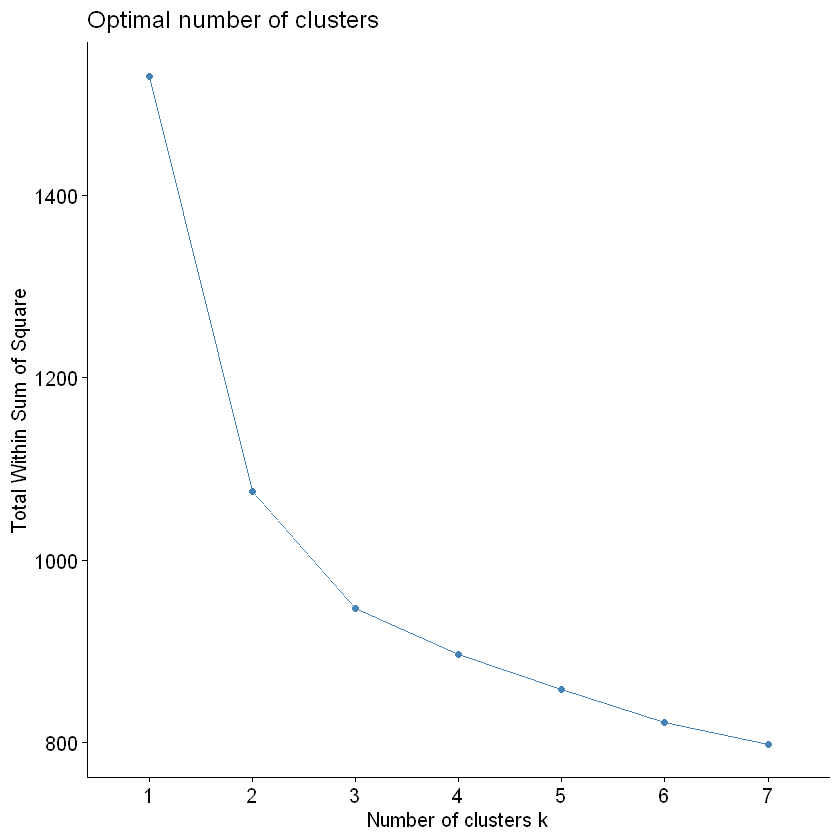
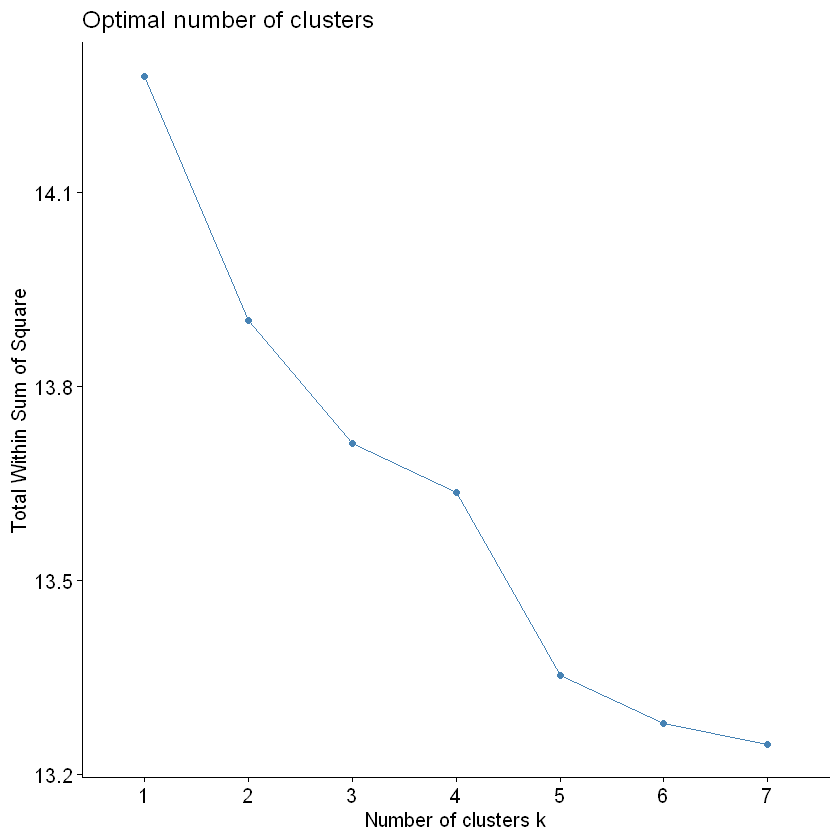
Update choosing K in P2

diff --git a/RNotebook2/RNotebook.html b/RNotebook2/RNotebook.html
@@ -13489,7 +13489,7 @@ height=420
 <div class="inner_cell">
     <div class="input_area">
 <div class=" highlight hl-r"><pre><span></span><span class="c1">## Estimating the optimal number of clusters: WSS</span>
-<span class="nf">fviz_nbclust</span><span class="p">(</span><span class="n">gower_mat</span><span class="p">,</span> <span class="n">kmeans</span><span class="p">,</span> <span class="n">method</span> <span class="o">=</span> <span class="s">&quot;wss&quot;</span><span class="p">,</span> <span class="n">k.max</span><span class="o">=</span><span class="m">7</span><span class="p">)</span>
+<span class="nf">fviz_nbclust</span><span class="p">(</span><span class="n">df_cluster</span><span class="p">,</span> <span class="n">kmeans</span><span class="p">,</span> <span class="n">diss</span><span class="o">=</span><span class="n">gower_mat</span><span class="p">,</span> <span class="n">method</span> <span class="o">=</span> <span class="s">&quot;wss&quot;</span><span class="p">,</span> <span class="n">k.max</span><span class="o">=</span><span class="m">7</span><span class="p">)</span>
 </pre></div>
 
     </div>
@@ -13526,7 +13526,7 @@ height=420
 <div class="inner_cell">
     <div class="input_area">
 <div class=" highlight hl-r"><pre><span></span><span class="c1">## Estimating the optimal number of clusters: Silhouette</span>
-<span class="nf">fviz_nbclust</span><span class="p">(</span><span class="n">gower_mat</span><span class="p">,</span> <span class="n">kmeans</span><span class="p">,</span> <span class="n">method</span> <span class="o">=</span> <span class="s">&quot;silhouette&quot;</span><span class="p">,</span> <span class="n">k.max</span><span class="o">=</span><span class="m">7</span><span class="p">)</span>
+<span class="nf">fviz_nbclust</span><span class="p">(</span><span class="n">df_cluster</span><span class="p">,</span> <span class="n">kmeans</span><span class="p">,</span> <span class="n">diss</span><span class="o">=</span><span class="n">gower_mat</span><span class="p">,</span> <span class="n">method</span> <span class="o">=</span> <span class="s">&quot;silhouette&quot;</span><span class="p">,</span> <span class="n">k.max</span><span class="o">=</span><span class="m">7</span><span class="p">)</span>
 </pre></div>
 
     </div>
@@ -13563,7 +13563,7 @@ height=420
 <div class="inner_cell">
     <div class="input_area">
 <div class=" highlight hl-r"><pre><span></span><span class="c1">## Estimating the optimal number of clusters: Gap Statistics</span>
-<span class="nf">fviz_nbclust</span><span class="p">(</span><span class="n">df_cluster</span><span class="p">,</span> <span class="n">kmeans</span><span class="p">,</span><span class="n">diss</span><span class="o">=</span><span class="n">gower_mat</span><span class="p">,</span> <span class="n">method</span> <span class="o">=</span> <span class="s">&quot;gap_stat&quot;</span><span class="p">,</span> <span class="n">k.max</span><span class="o">=</span><span class="m">7</span><span class="p">)</span>
+<span class="nf">fviz_nbclust</span><span class="p">(</span><span class="n">df_cluster</span><span class="p">,</span> <span class="n">kmeans</span><span class="p">,</span> <span class="n">diss</span><span class="o">=</span><span class="n">gower_mat</span><span class="p">,</span> <span class="n">method</span> <span class="o">=</span> <span class="s">&quot;gap_stat&quot;</span><span class="p">,</span> <span class="n">k.max</span><span class="o">=</span><span class="m">7</span><span class="p">)</span>
 </pre></div>
 
     </div>
@@ -15058,7 +15058,7 @@ height=420
 <div class="cell border-box-sizing text_cell rendered"><div class="prompt input_prompt">
 </div><div class="inner_cell">
 <div class="text_cell_render border-box-sizing rendered_html">
-<p>Highly suggests 1 cluster, but the Gap Stat has high values for all $k=5$ considered ($k=2$ is the lowest with a value between 0.93 and 0.94).</p>
+<p>Highly suggests 1 cluster, but the Gap Stat has high values for all $k=7$ considered ($k=2$ is the lowest with a value between 0.93 and 0.94).</p>
 <p>The gap statistic compares the total intracluster variation (within a cluster variation) for different values of k with their expected values under null reference distribution of the data. The estimate of the optimal clusters (k) will be the value that maximizes $Gap(k)$.</p>
 
 </div>
